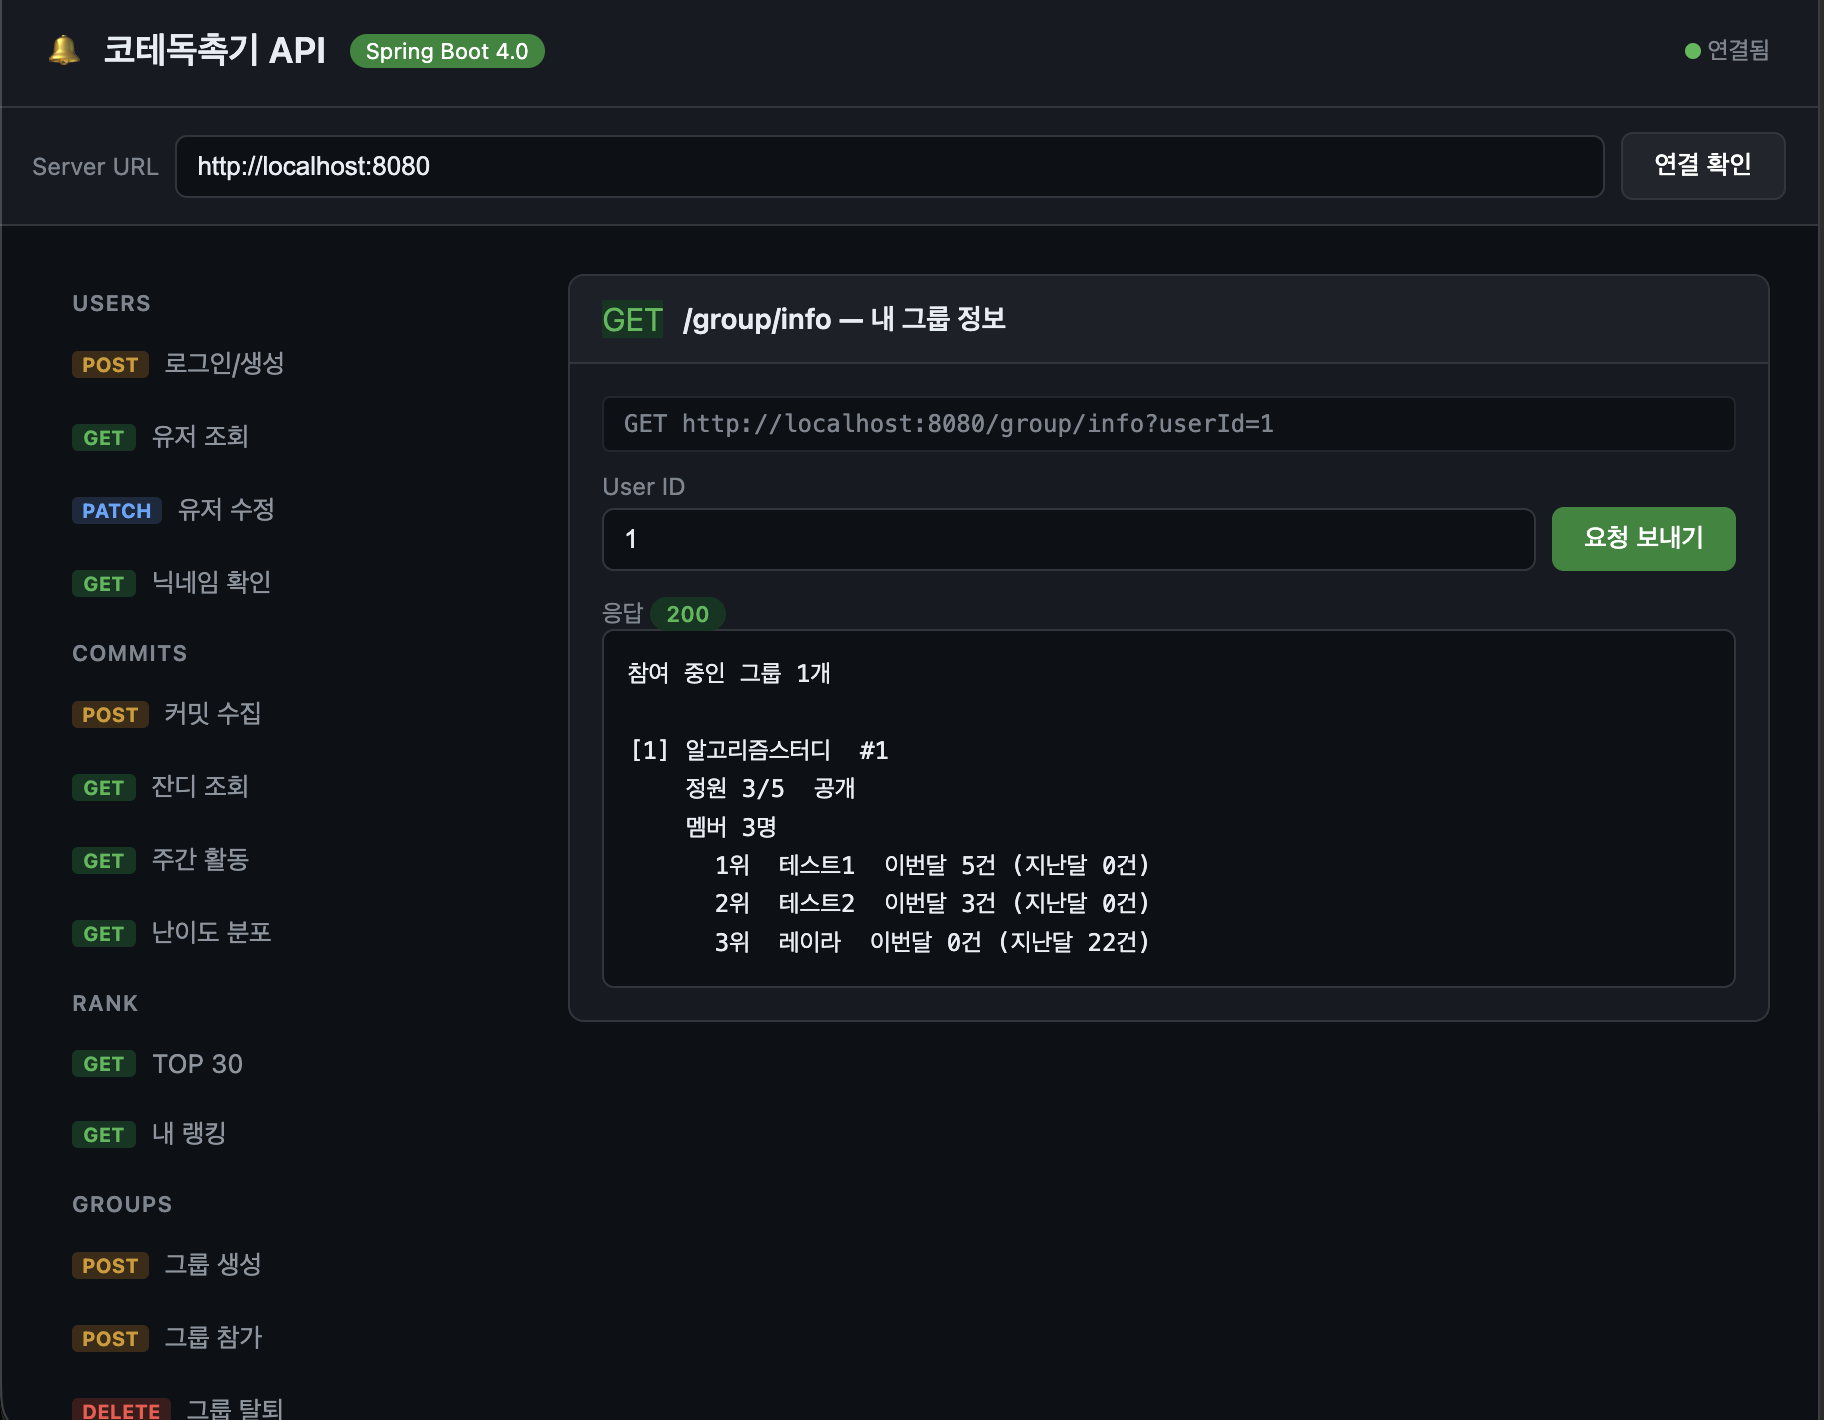
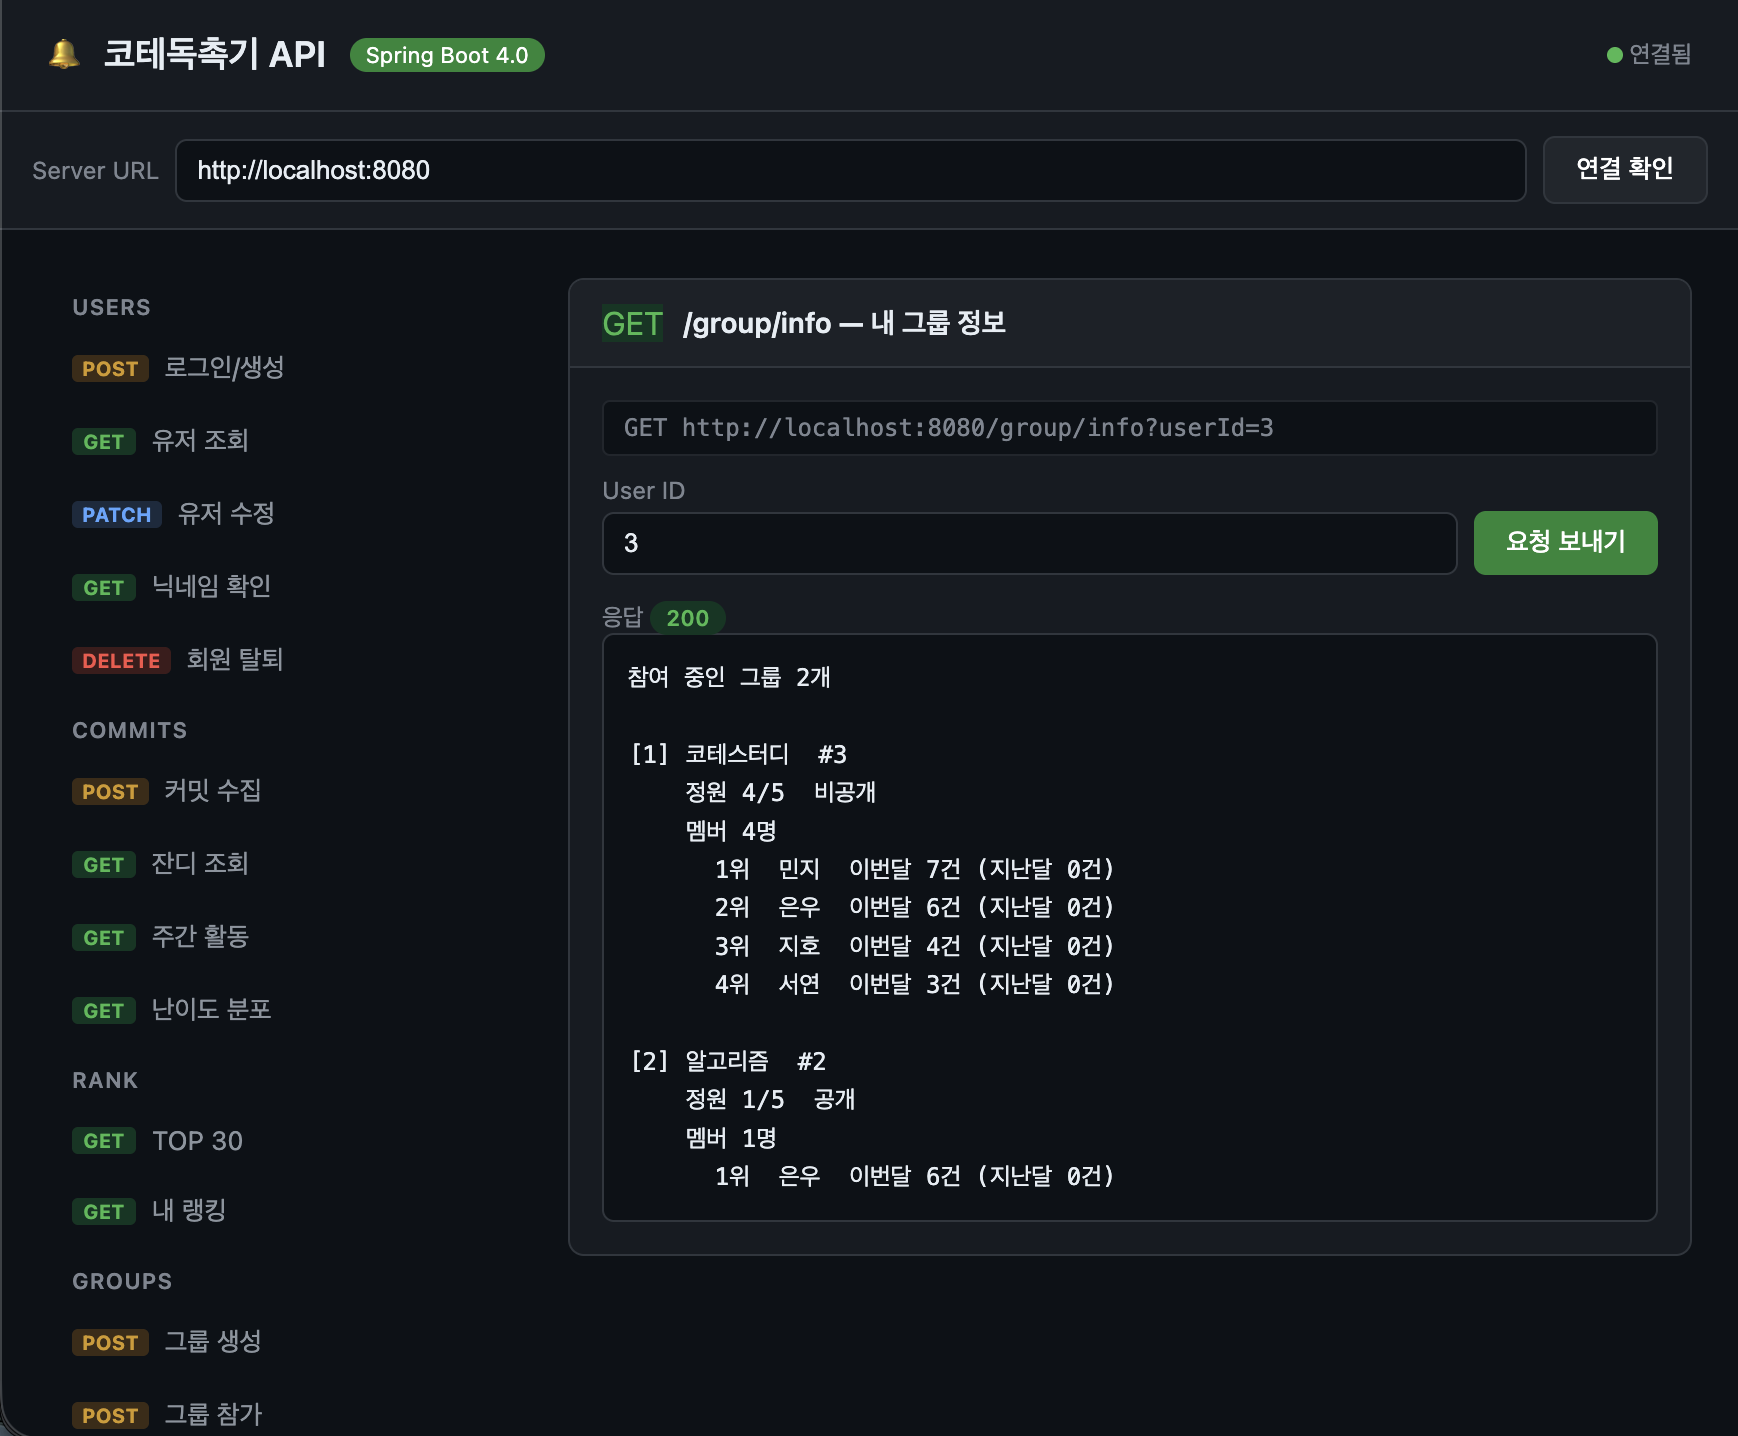
fix: 벤치 시드가 없어진 컬럼을 넣고 있었다 — 실패 지점 서술도 틀렸다
랭킹 A/B 는 2026-08-19 에 이미 축을 잃었고(ranking.redis.enabled 제거)
bench/README.md 와 run.sh 머리에 그렇게 적혀 있다. 문제는 그 다음이다.

Phase 2 의 물리 삭제가 users.active 를 떨궜는데 bench/seed.sql 이 그 컬럼에
INSERT 하고 있었다. run.sh 는 seed.sql 을 파이프로 먹이므로, 실제로는 시딩에서
Unknown column 'active' 로 죽는다. 그런데 run.sh 주석은 실패 지점을 "워밍
단계(114행)" 라고 적고 있었다 — 서술이 실제와 다르다.

bench/ 는 백틱 게이트의 스캔 대상이 아니라 아무도 못 잡았다. 게이트 밖이라는 게
규칙이 아니라 우연이다 (아래 보고 참조).

고친 것:

  seed.sql   active 컬럼 제거. 주석도 고쳤다 — "active = TRUE 여야 랭킹 쿼리에
             잡힌다"는 이제 거짓이다. 랭킹은 users 를 조인하지 않고,
             user_monthly_score 에 행이 있는 것이 곧 포함이다
  run.sh     실패 지점을 시점별로 적었다. 줄 번호(114행)는 뺐다 — 편집할 때마다
             어긋나는 참조라 같은 실패를 반복한다
  두 파일    아카이브로 옮긴 PLAN-aggregate-table.md 경로 갱신

임시 컨테이너에 마이그레이션 체인을 다 태우고 확인했다 (개발 DB 로는 못 한다 —
seed.sql 이 TRUNCATE 로 시작한다):

  고친 seed.sql   @target_users=1000 → users 1000, commits 20500
  고치기 전 형태  ERROR 1054 Unknown column 'active' in 'field list'

그리고 Phase 5 에서 루트 README 가 bench 를 "성능 측정 방법" 이라고 가리키고
있었다. 안 도는 스크립트를 방법이라 부른 것이라 "기록" 으로 고쳤다.
server/README.md 의 "측정 재현" 도 같다.

Claude-Session: https://claude.ai/code/session_01KXUxtTF2N13mxX4HdiBxtX

diff --git a/bench/README.md b/bench/README.md
@@ -8,7 +8,7 @@
 > 스케줄러가 없어져 워밍 단계에서 하드 실패합니다 — 조용히 0 을 재지는 않습니다.
 >
 > 지우지 않는 이유: `docs/기록.md` 의 측정 표가 이 문서와 스크립트를 근거로 서 있습니다.
-> 새 측정 방식은 `PLAN-aggregate-table.md` §5 (앱을 거치지 않고 MySQL 에서 쿼리만 직접).
+> 새 측정 방식은 `docs/archive/PLAN-aggregate-table.md` §5 (앱을 거치지 않고 MySQL 에서 쿼리만 직접).
 
 ---
 

diff --git a/server/README.md b/server/README.md
@@ -3,7 +3,7 @@
 **운영 레퍼런스**입니다. 실행 방법, API, 트러블슈팅만 다룹니다.
 
 - 이 프로젝트가 무엇이고 **무엇이 과했는지** → [`../docs/기록.md`](../docs/기록.md)
-- 랭킹 성능 측정 재현 → [`../bench/README.md`](../bench/README.md)
+- 랭킹 성능 측정 기록(재현 불가) → [`../bench/README.md`](../bench/README.md)
 
 ---
 
